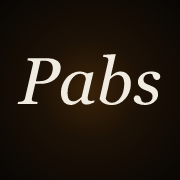
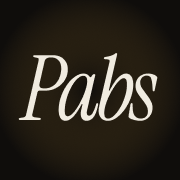
Replace generated assets with final branded PNGs
- og.png: final OG share image (1200×630)
- apple-touch-icon.png: final home screen icon
- favicon.png: final browser favicon
- index.html: update favicon link to reference favicon.png

Changed region(s): [[0.0833, 0.2778, 0.8889, 0.6944]]

diff --git a/index.html b/index.html
@@ -4,7 +4,7 @@
     <meta charset="UTF-8" />
 
     <!-- ── Favicon & Touch Icon ─────────────────────────────────────────── -->
-    <link rel="icon" type="image/svg+xml" href="/favicon.svg" />
+    <link rel="icon" type="image/png" href="/favicon.png" />
     <link rel="apple-touch-icon" href="/apple-touch-icon.png" />
 
     <!-- ── Viewport ──────────────────────────────────────────────────────── -->
